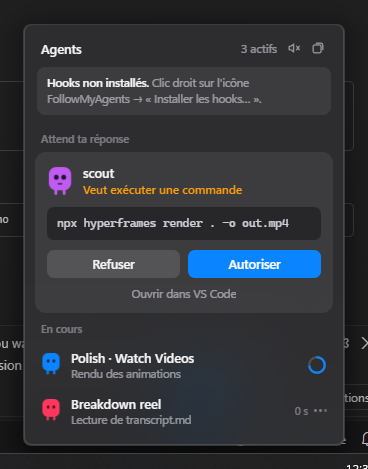
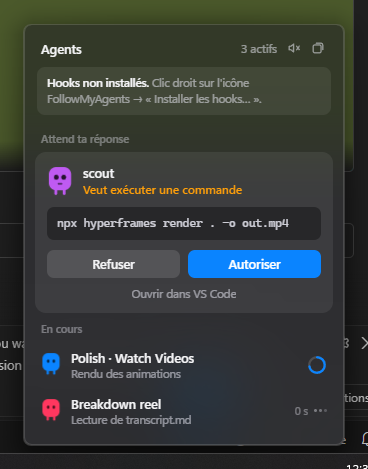
test: transcript reader tests, native shortcut and detach checks

Changed region(s): [[0.0, 0.0, 0.9864, 0.3582], [0.0, 0.4478, 0.0299, 0.4776]]

diff --git a/tests/transcripts.test.ts b/tests/transcripts.test.ts
@@ -1,0 +1,65 @@
+import fs from "node:fs";
+import os from "node:os";
+import path from "node:path";
+import { afterEach, beforeEach, describe, expect, it } from "vitest";
+import { readTranscriptInfo, scanRecentTranscripts } from "../src/main/transcripts";
+
+let dir: string;
+beforeEach(() => (dir = fs.mkdtempSync(path.join(os.tmpdir(), "fma-tr-"))));
+afterEach(() => fs.rmSync(dir, { recursive: true, force: true }));
+
+const line = (o: unknown) => JSON.stringify(o) + "\n";
+function transcript(file: string, entries: unknown[]) {
+  fs.mkdirSync(path.dirname(file), { recursive: true });
+  fs.writeFileSync(file, entries.map(line).join("") + "{truncated");
+}
+
+describe("readTranscriptInfo", () => {
+  it("lit le titre (custom-title > ai-title), le cwd, le dernier prompt et le dernier outil sans résultat", () => {
+    const f = path.join(dir, "p", "abc.jsonl");
+    transcript(f, [
+      { type: "last-prompt", lastPrompt: "fais le rendu", sessionId: "abc" },
+      { type: "ai-title", aiTitle: "Rendu des vidéos", sessionId: "abc" },
+      { type: "user", cwd: "C:\\work\\p", sessionId: "abc", message: { role: "user", content: "go" } },
+      { type: "assistant", cwd: "C:\\work\\p", message: { content: [{ type: "text", text: "Je lance." }, { type: "tool_use", id: "t1", name: "Read", input: { file_path: "a" } }] } },
+      { type: "user", message: { content: [{ type: "tool_result", tool_use_id: "t1", content: "x" }] } },
+      { type: "assistant", message: { content: [{ type: "tool_use", id: "t2", name: "Bash", input: { command: "npm test" } }] } },
+    ]);
+    const i = readTranscriptInfo(f);
+    expect(i).toMatchObject({ sessionId: "abc", cwd: "C:\\work\\p", title: "Rendu des vidéos", lastPrompt: "fais le rendu", lastAssistantText: "Je lance." });
+    expect(i.openToolUse).toEqual({ name: "Bash", input: { command: "npm test" } });
+    fs.appendFileSync(f, "\n" + line({ type: "custom-title", customTitle: "Mon titre" }));
+    expect(readTranscriptInfo(f).title).toBe("Mon titre");
+  });
+
+  it("pas d'outil ouvert si le dernier tool_use a son résultat", () => {
+    const f = path.join(dir, "p", "x.jsonl");
+    transcript(f, [
+      { type: "assistant", message: { content: [{ type: "tool_use", id: "t1", name: "Read", input: {} }] } },
+      { type: "user", message: { content: [{ type: "tool_result", tool_use_id: "t1" }] } },
+    ]);
+    expect(readTranscriptInfo(f).openToolUse).toBeUndefined();
+  });
+
+  it("fichier absent → objet vide", () => {
+    expect(readTranscriptInfo(path.join(dir, "nope.jsonl"))).toEqual({});
+  });
+});
+
+describe("scanRecentTranscripts", () => {
+  it("ne garde que les transcripts principaux récents", () => {
+    const now = Date.now();
+    transcript(path.join(dir, "proj", "recent.jsonl"), [{ type: "user", cwd: "/w", sessionId: "recent" }]);
+    transcript(path.join(dir, "proj", "old.jsonl"), [{ type: "user", cwd: "/w", sessionId: "old" }]);
+    const old = (now - 60 * 60_000) / 1000;
+    fs.utimesSync(path.join(dir, "proj", "old.jsonl"), old, old);
+    // transcript de sous-agent (sous-dossier) : ignoré
+    transcript(path.join(dir, "proj", "recent", "subagents", "agent-1.jsonl"), [{ type: "user", cwd: "/w", sessionId: "recent" }]);
+    const r = scanRecentTranscripts(dir, 30 * 60_000, now);
+    expect(r.map((x) => x.info.sessionId)).toEqual(["recent"]);
+  });
+
+  it("dossier inexistant → liste vide", () => {
+    expect(scanRecentTranscripts(path.join(dir, "missing"))).toEqual([]);
+  });
+});

diff --git a/docs/PROGRESS.md b/docs/PROGRESS.md
@@ -1,19 +1,22 @@
 # Avancement
 
 ## Fait
-- Phase 0 : serveur de test, bac à sable, imitation de l'hôte VS Code, tests (a)(b-simulé)(c)(d-partiel)(e). Résultats dans `docs/phase0.md`, décisions D1–D7 dans `docs/DECISIONS.md`.
+- **Phase 0** : outillage + résultats (`docs/phase0.md`), décisions D1–D7.
+- **Phase 1** : app Electron (electron-vite + React 19 + TS), serveur de hooks, store, installeur + CLI, liste.
+- **Phase 2** : permissions (Autoriser / Refuser / Toujours autoriser / Ouvrir dans VS Code), questions (options, multiSelect, plusieurs questions, « Autre… »), timeouts, flash, détection « répondu dans VS Code ».
+- **Phase 3** : vue détail, jump VS Code (script PowerShell Windows / `code` macOS), mascottes animées, son, verre natif (acrylique vérifié), icône système (ouverture auto sans focus, reste ouvert après un clic, détacher).
+- **Phase 4 (en partie)** : notifications (après 30 s sans réponse), raccourcis (global + Entrée/Échap/1–9), badge, lancement au démarrage.
+- Tests : 74 tests unitaires (Vitest), `e2e/run.mjs` (20 vérifications + captures), `e2e/native.mjs` (3 vérifications Windows : verre réel, focus, vrai clic), `e2e/live.mjs` (5 vérifications avec de vraies sessions Claude Code).
 
 ## En cours
-- Phase 1 : squelette Electron + serveur + store + installeur + liste.
+- Tests transcripts, détacher / raccourci global en natif, packaging.
 
 ## Reste à faire
-- Phase 2 : permissions et questions dans l'UI (requêtes en attente, timeouts, flash).
-- Phase 3 : vue détail, jump VS Code, mascottes animées, son, verre natif, comportement de l'icône.
-- Phase 4 : always allow, réponse libre, multiSelect, notifications, raccourcis, badge, packaging, lancement au démarrage.
-- Captures d'écran Playwright + comparaison avec les maquettes.
-- Vérification des critères §8, `docs/REVIEW.md`.
+- Packaging Windows (NSIS), config macOS (dmg à construire sur un Mac).
+- `docs/REVIEW.md`, vérification des critères §8.
 
 ## Notes pour reprendre
 - Binaire claude : `~/.vscode/extensions/anthropic.claude-code-2.1.322-win32-x64/resources/native-binary/claude.exe`.
-- Bac à sable : `node scripts/make-sandbox.mjs` puis `bash scripts/sandbox-claude.sh "<prompt>" --model haiku`, ou `node phase0/sdk-host.mjs "<prompt>" <hostPolicy>` pour imiter VS Code (AskUserQuestion disponible).
-- Ne jamais toucher à `~/.claude/settings.json`.
+- **Lancer Electron depuis le terminal de VS Code : retirer `ELECTRON_RUN_AS_NODE`** (`env -u ELECTRON_RUN_AS_NODE …`), sinon Electron se comporte comme Node.
+- Bac à sable : `node scripts/make-sandbox.mjs`, puis `node phase0/sdk-host.mjs "<prompt>" <hostPolicy>`.
+- Ne jamais toucher à `~/.claude/settings.json`. Les tests utilisent `FMA_USER_DATA` / `FMA_CLAUDE_SETTINGS` (fichiers temporaires).
